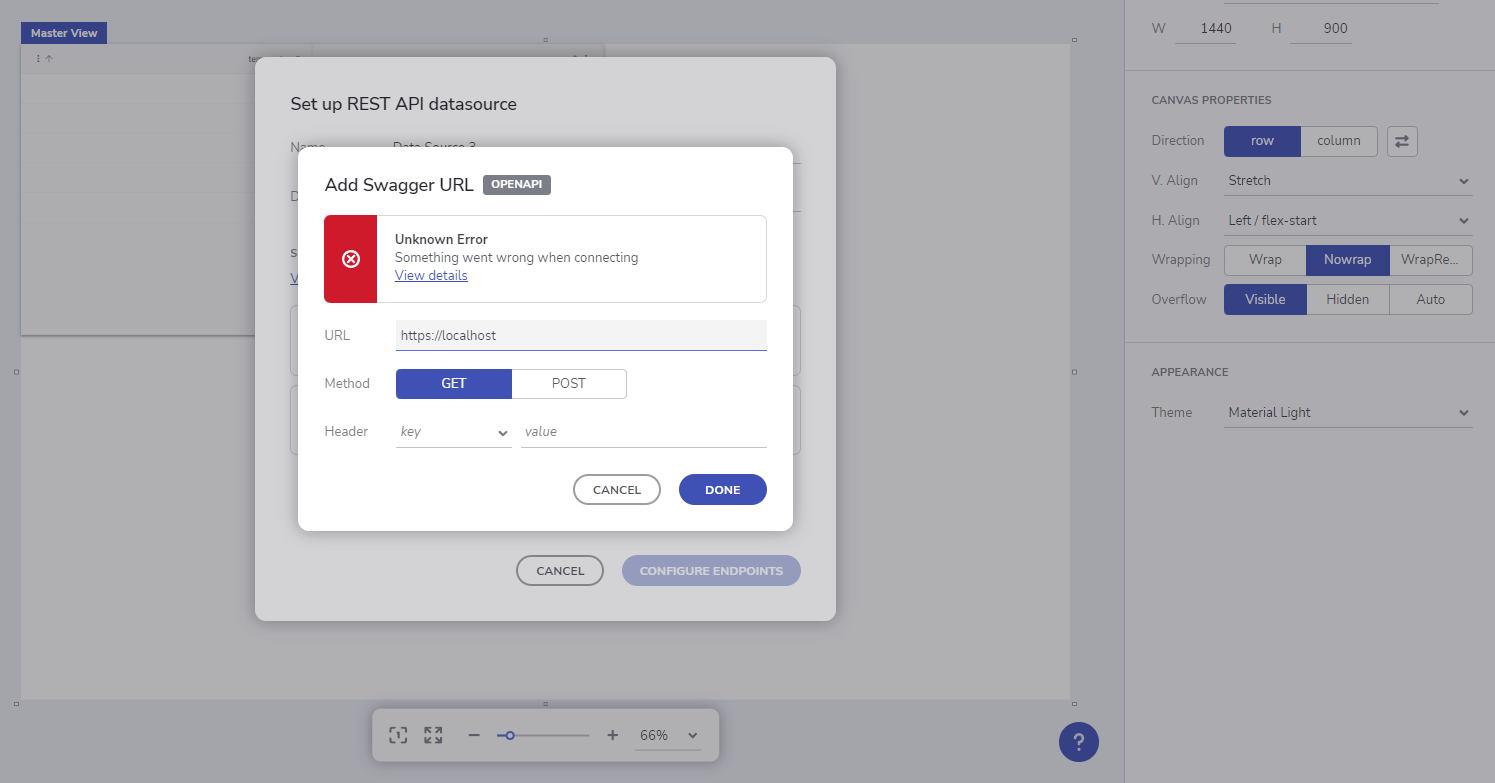
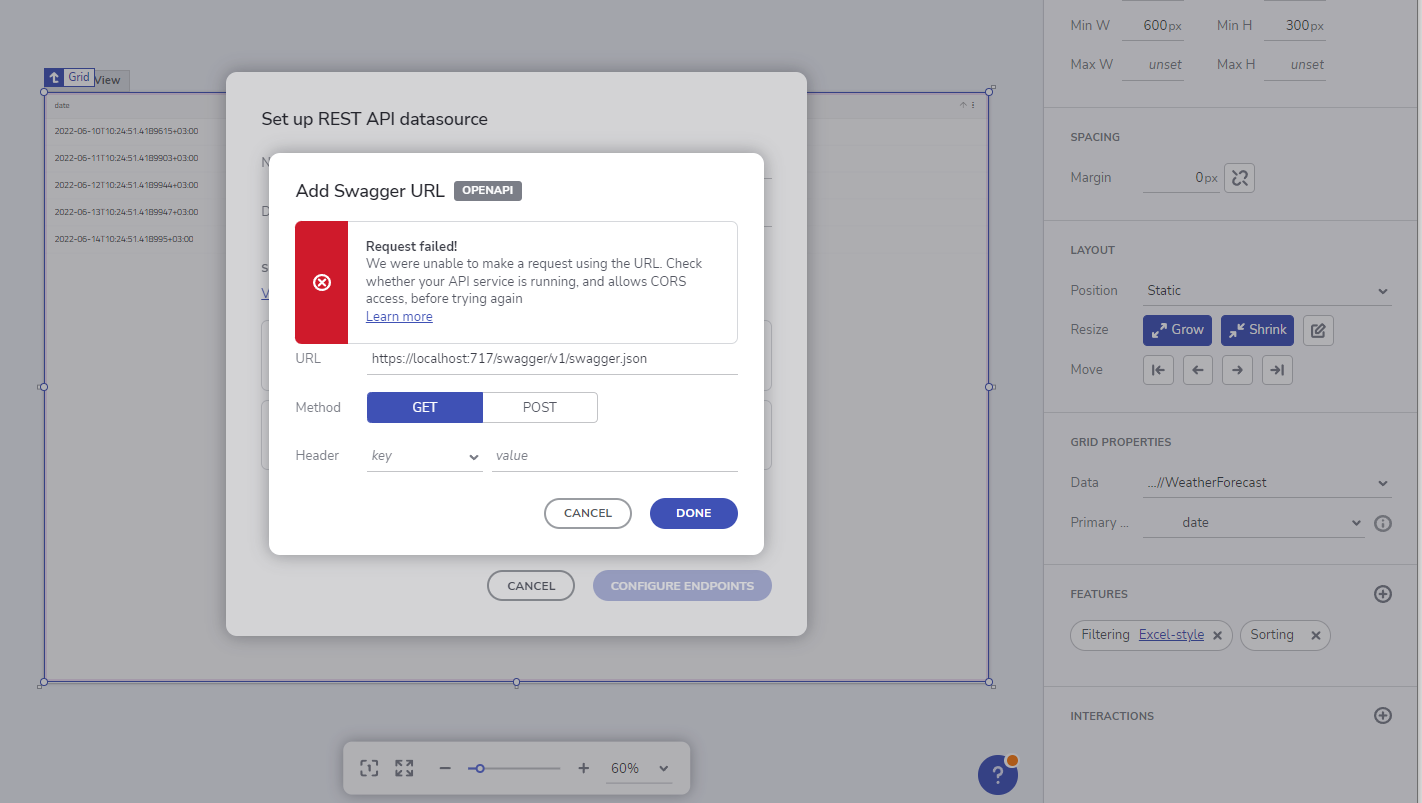
Final changes

diff --git a/en/using-data-in-your-app.md b/en/using-data-in-your-app.md
@@ -44,14 +44,16 @@ You can now make requests to a localhost or private networks. This includes regu
 <img class="responsive-img" style="box-shadow: 5px -4px 13px 1px grey" src="./images/internal-network-data-source.gif" />
 <p style="text-align:center;">Local network sources usage</p>
 
-### Troubleshooting
-### Unknown Error - Something went wrong when connecting
-Due to the essence of working with local networks this type of error requires additional work in order to identify if the local/private service fails due to CORS problems (Cross-Origin Requests) or something else.
+<div style="font-size: 2em; margin-top: 0.83em; margin-bottom: 0.83em; margin-left: 0; margin-right: 0; font-weight: bold;">Troubleshooting</div>
 
-If `Unknown error` dialog appears while you add a local service, open the `dev tools` of your browser (Hit `F12`) and check the console/network tab for errors. The most probable reason would be CORS restrictions.
+If you get an error dialog while using a private network this section can help resolve the problem. If the problems aren't resolved, follow the [report and issue or send us feedback](getting-started.md#report-an-issue-or-send-feedback) section.
+### Request failed error dialog
+Due to the essence of working with local networks this type of error requires additional work in order to identify if the local/private service fails due to CORS problems (Cross-Origin Requests) or else.
+
+If `Request failed` dialog appears while you add a local service, open the `dev tools` of your browser (Hit `F12`) and check the console/network tab for errors. The most probable reason would be CORS restrictions.
 
 <img class="responsive-img" style="box-shadow: 5px -4px 13px 1px grey" src="./images/internal-network-error.png" />
-<p style="text-align:center;">Unknown error message</p>
+<p style="text-align:center;">Request failed error</p>
 
 Based on the local service configuration, there a couple of ways to overcome the Cross-Origin Requests problem that we discuss with more details below.
 

diff --git a/en/open-api-swagger-support.md b/en/open-api-swagger-support.md
@@ -51,6 +51,13 @@ The right-side of the _Configure endpoints_ dialog consists of:
 <img class="responsive-img" style="box-shadow: 5px -4px 13px 1px grey" src="./images/endpoints-dialog.png" />
 <p style="text-align:center;">Configure Endpoints Dialog</p>
 
+## Using data source from local network sources
+You can now make requests to a localhost or private networks. For more information, check out the [private networks usage section](using-data-in-your-app.md#using-data-source-from-local-network-sources) part of _Using data in your application_ topic
+
+<img class="responsive-img" style="box-shadow: 5px -4px 13px 1px grey" src="./images/internal-network-data-source.gif" />
+<p style="text-align:center;">Local network sources usage</p>
+
+
 ## Additional Resources
 
 <div class="divider--half"></div>

diff --git a/en/getting-started.md b/en/getting-started.md
@@ -111,7 +111,7 @@ Learn more about our low-code App Builder in our short overview video:
 
 ## Report an issue or send feedback
 
-[This repository](https://github.com/IgniteUI/app-builder) is intended for issues and feature requests submission, as well as for general product discussions, questions and any feedback that you want to share.
+[This repository](https://github.com/IgniteUI/app-builder) is intended for issues and feature requests submission, as well as for general product discussions, questions and any feedback that you want to share. You can also <a href="mailto:feedback@indigo.design">send us an email</a>.
 ## Additional Resources
 <div class="divider--half"></div>
 
